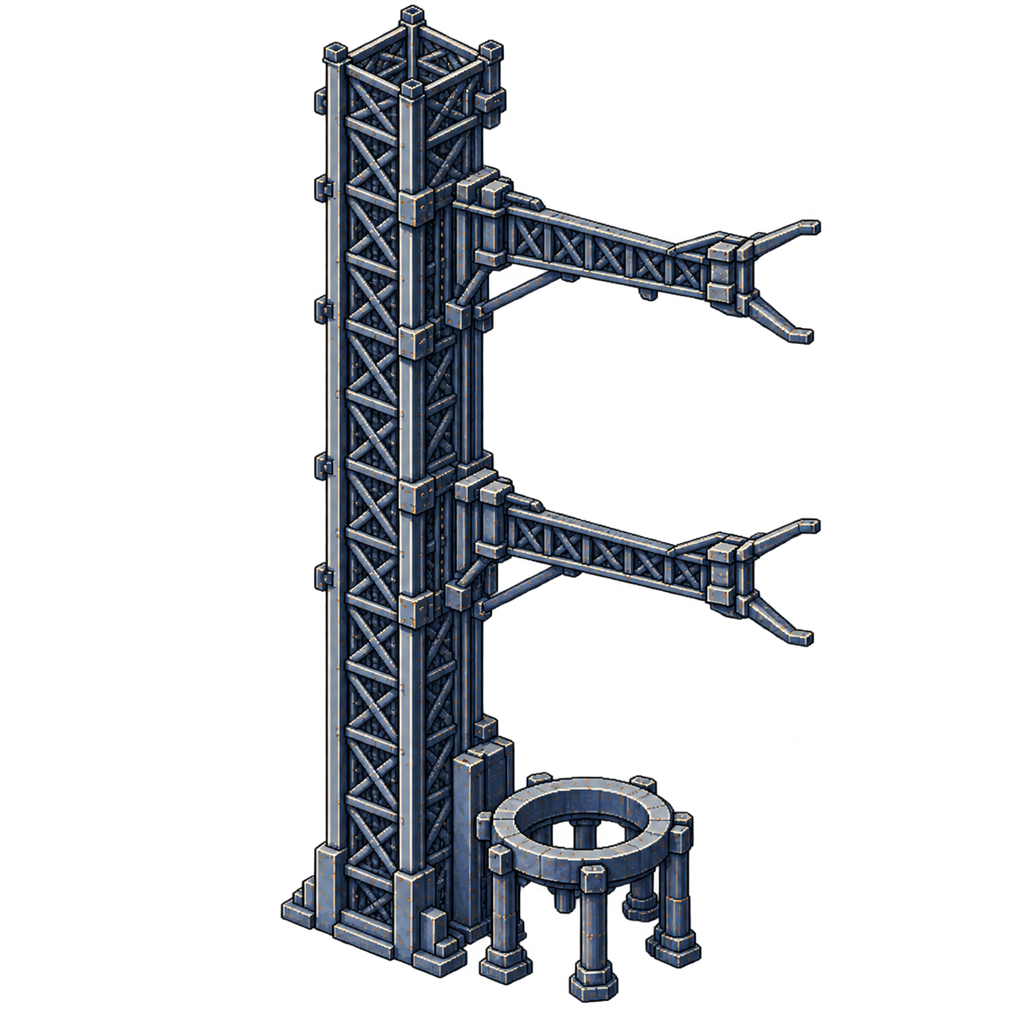
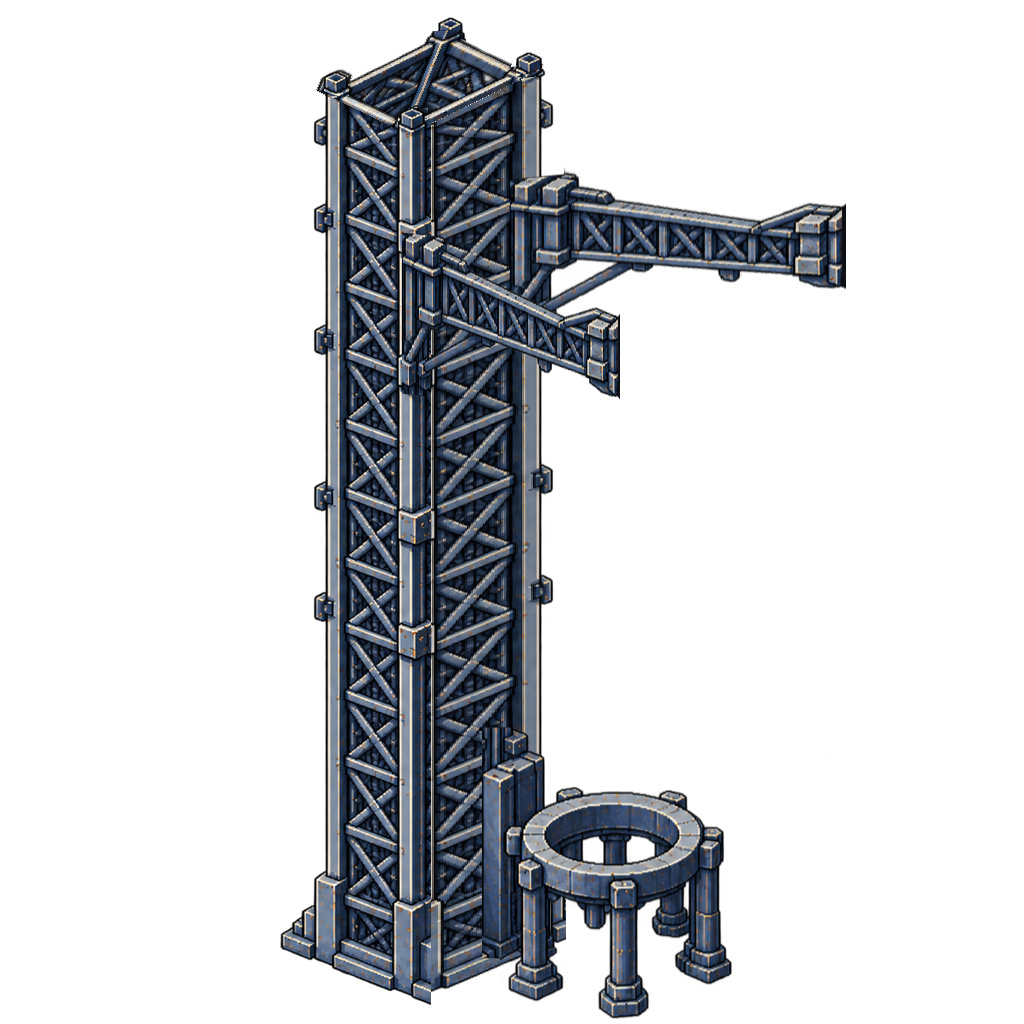
Fix the Eagle and Mihashira reference sheets, and add the Eagle 9 landing sheet
Eagle 9 is now the Eagle Heavy centre core: both Eagle 9 sheets are rebuilt
from it, with an expendable version, the split fairing, and a new sheet of
the first stage landing with its grid fins and legs out.

Eagle Heavy: grid fins folded while the three cores are joined, and the
same nine equal engines as Eagle 9.

Mihashira: the hands at the arm tips are gone, the two arms sit at the same
height on the two corners of the tower's wide face, and every view now has
an open and a closed version.

Changed region(s): [[0.25, 0.0, 0.8438, 1.0]]

diff --git a/docs/index.html b/docs/index.html
@@ -912,7 +912,7 @@ footer { border-top: 1px solid var(--border); padding: 24px 16px; text-align: ce
   <p>挿絵や背景を描くときに、形がぶれないよう参照する設定資料。正面・側面・上面とパースを 1 枚に並べている。クリックすると大きく開く。依頼のプロンプトと状態は <code>art/illustrations/prompts.md</code>、元の画像は <code>art/illustrations/ref/sheets/</code>。</p>
   <div class="sheets">
     <figure><a href="img/sheets/r1_eagle1.webp"><img src="img/sheets/r1_eagle1.webp" alt="Eagle 1 の設定画" width="1024" height="804" loading="lazy"></a><figcaption><strong>Eagle 1</strong> <span>2段式の小型ロケット。全長 21 m・直径 1.7 m(元ネタ: Falcon 1)</span></figcaption></figure>
-    <figure><a href="img/sheets/r2_eagle9.webp"><img src="img/sheets/r2_eagle9.webp" alt="Eagle 9 の設定画" width="1024" height="683" loading="lazy"></a><figcaption><strong>Eagle 9</strong> <span>使い捨て版と、脚・グリッドフィン付きの回収版(元ネタ: Falcon 9)</span></figcaption></figure>
+    <figure><a href="img/sheets/r2_eagle9.webp"><img src="img/sheets/r2_eagle9.webp" alt="Eagle 9 の設定画" width="1024" height="683" loading="lazy"></a><figcaption><strong>Eagle 9</strong> <span>Eagle Heavy の中央機と同じ1段目・2段目。左から使い捨て版(脚・グリッドフィンなし)と、回収版のフィンを開いた姿・新品と再使用(元ネタ: Falcon 9)</span></figcaption></figure>
     <figure><a href="img/sheets/r3_eagle_heavy.webp"><img src="img/sheets/r3_eagle_heavy.webp" alt="Eagle Heavy の設定画" width="1024" height="683" loading="lazy"></a><figcaption><strong>Eagle Heavy</strong> <span>Eagle 9 の1段目を 3 本たばねた大型機(元ネタ: Falcon Heavy)</span></figcaption></figure>
     <figure><a href="img/sheets/r4_mega_booster.webp"><img src="img/sheets/r4_mega_booster.webp" alt="Mega Booster と Space Ship の設定画" width="1024" height="1072" loading="lazy"></a><figcaption><strong>Mega Booster + Space Ship</strong> <span>完全再使用の超大型機(元ネタ: Super Heavy + Starship)</span></figcaption></figure>
     <figure><a href="img/sheets/r5_hopper.webp"><img src="img/sheets/r5_hopper.webp" alt="Hopper の設定画" width="1024" height="683" loading="lazy"></a><figcaption><strong>Hopper</strong> <span>着陸試験機(元ネタ: Grasshopper)</span></figcaption></figure>
@@ -924,7 +924,8 @@ footer { border-top: 1px solid var(--border); padding: 24px 16px; text-align: ce
   <p>分離のようすと、場所を 1 方向ずつ描いた図。4 方向の図は左上から側面・正面・上面・パースの順に並べている。</p>
   <div class="sheets">
     <figure><a href="img/sheets/r1_1_eagle1_separated.webp"><img src="img/sheets/r1_1_eagle1_separated.webp" alt="Eagle 1 の分離図" width="1024" height="683" loading="lazy"></a><figcaption><strong>Eagle 1(分離)</strong> <span>1段目・2段目・フェアリングを分けた図</span></figcaption></figure>
-    <figure><a href="img/sheets/r2_1_eagle9_separated.webp"><img src="img/sheets/r2_1_eagle9_separated.webp" alt="Eagle 9 の分離図" width="1024" height="683" loading="lazy"></a><figcaption><strong>Eagle 9(分離)</strong> <span>1段目・2段目・フェアリングを分けた図</span></figcaption></figure>
+    <figure><a href="img/sheets/r2_1_eagle9_separated.webp"><img src="img/sheets/r2_1_eagle9_separated.webp" alt="Eagle 9 の分離図" width="1024" height="683" loading="lazy"></a><figcaption><strong>Eagle 9(分離)</strong> <span>1段目・2段目・2つに割れたフェアリングを分けた図と、重なる順に並べた図</span></figcaption></figure>
+    <figure><a href="img/sheets/r2_2_eagle9_landing.webp"><img src="img/sheets/r2_2_eagle9_landing.webp" alt="Eagle 9 の着陸時の図" width="1024" height="683" loading="lazy"></a><figcaption><strong>Eagle 9(着陸)</strong> <span>グリッドフィンと着陸脚を開いた1段目。側面・正面(同じ形)・上面・パース</span></figcaption></figure>
     <figure><a href="img/sheets/r3_1_eagle_heavy_separated.webp"><img src="img/sheets/r3_1_eagle_heavy_separated.webp" alt="Eagle Heavy の分離図" width="1024" height="683" loading="lazy"></a><figcaption><strong>Eagle Heavy(分離)</strong> <span>サイドブースター・中央コア・2段目を分けた図</span></figcaption></figure>
     <figure><a href="img/sheets/r7_omega_island_views.webp"><img src="img/sheets/r7_omega_island_views.webp" alt="オメガ島の 4 方向の図" width="1024" height="1024" loading="lazy"></a><figcaption><strong>オメガ島の射場(4 方向)</strong> <span>側面・正面・上面・パース</span></figcaption></figure>
     <figure><a href="img/sheets/r8_mihashira_open_views.webp"><img src="img/sheets/r8_mihashira_open_views.webp" alt="ミハシラ(腕を開いた形)の 4 方向の図" width="1024" height="1024" loading="lazy"></a><figcaption><strong>ミハシラ・腕を開いた形(4 方向)</strong> <span>側面・正面・上面・パース</span></figcaption></figure>

diff --git a/art/illustrations/prompts.md b/art/illustrations/prompts.md
@@ -54,12 +54,13 @@
 | R4 | Mega Booster + Space Ship | ✅ | `r4_mega_booster.png` |
 | R5 | Hopper | ✅ 参照写真なしで作った | `r5_hopper.png` |
 | R6 | Phoenix(カプセル) | ✅ | `r6_phoenix.png` |
-| R7 | オメガ島の射場 | 1 枚版 ✅ / 1 方向ずつ ⬜ | `r7_omega_island.png`(1 枚版)、`r7_omega_island_<向き>.png` |
-| R8 | ミハシラの射場 | 1 枚版 ✅ / 1 方向ずつ ⬜ 腕を開いた版と閉じた版で 4 枚ずつ | `r8_mihashira.png`(1 枚版)、`r8_mihashira_open_<向き>.png` / `r8_mihashira_closed_<向き>.png` |
-| R9 | 台船 | 1 枚版 ✅ / 1 方向ずつ ⬜ | `r9_droneship.png`(1 枚版)、`r9_droneship_<向き>.png` |
-| R1-1 | Eagle 1 分離後(1段目 / 2段目) | ⬜ R1 を渡して作る | `r1_1_eagle1_separated.png` |
-| R2-1 | Eagle 9 分離後(1段目 / 2段目 / フェアリング) | ⬜ R2 を渡して作る | `r2_1_eagle9_separated.png` |
-| R3-1 | Eagle Heavy 分離後(サイドブースター / センターコア / 2段目) | ⬜ R3 を渡して作る | `r3_1_eagle_heavy_separated.png` |
+| R7 | オメガ島の射場 | 1 枚版 ✅ / 1 方向ずつ ✅ | `r7_omega_island.png`(1 枚版)、`r7_omega_island_<向き>.png` |
+| R8 | ミハシラの射場 | 1 枚版 ✅ / 1 方向ずつ ✅ 腕を開いた版と閉じた版で 4 枚ずつ | `r8_mihashira.png`(1 枚版)、`r8_mihashira_open_<向き>.png` / `r8_mihashira_closed_<向き>.png` |
+| R9 | 台船 | 1 枚版 ✅ / 1 方向ずつ ✅ | `r9_droneship.png`(1 枚版)、`r9_droneship_<向き>.png` |
+| R1-1 | Eagle 1 分離後(1段目 / 2段目) | ✅ | `r1_1_eagle1_separated.png` |
+| R2-1 | Eagle 9 分離後(1段目 / 2段目 / フェアリング) | ✅ | `r2_1_eagle9_separated.png` |
+| R2-2 | Eagle 9 着陸時の1段目(グリッドフィンと着陸脚を開いた形。側面・正面・上面・パース) | ✅ | `r2_2_eagle9_landing.png` |
+| R3-1 | Eagle Heavy 分離後(サイドブースター / センターコア / 2段目) | ✅ | `r3_1_eagle_heavy_separated.png` |
 | R4-1 | Mega Booster + Space Ship 分離後 | ➖ R4 に、それぞれ単体の図が入っている | ― |
 | R6-1 | Phoenix 分離後(カプセル / トランク) | ➖ R6 に、それぞれ単体の図が入っている | ― |
 
